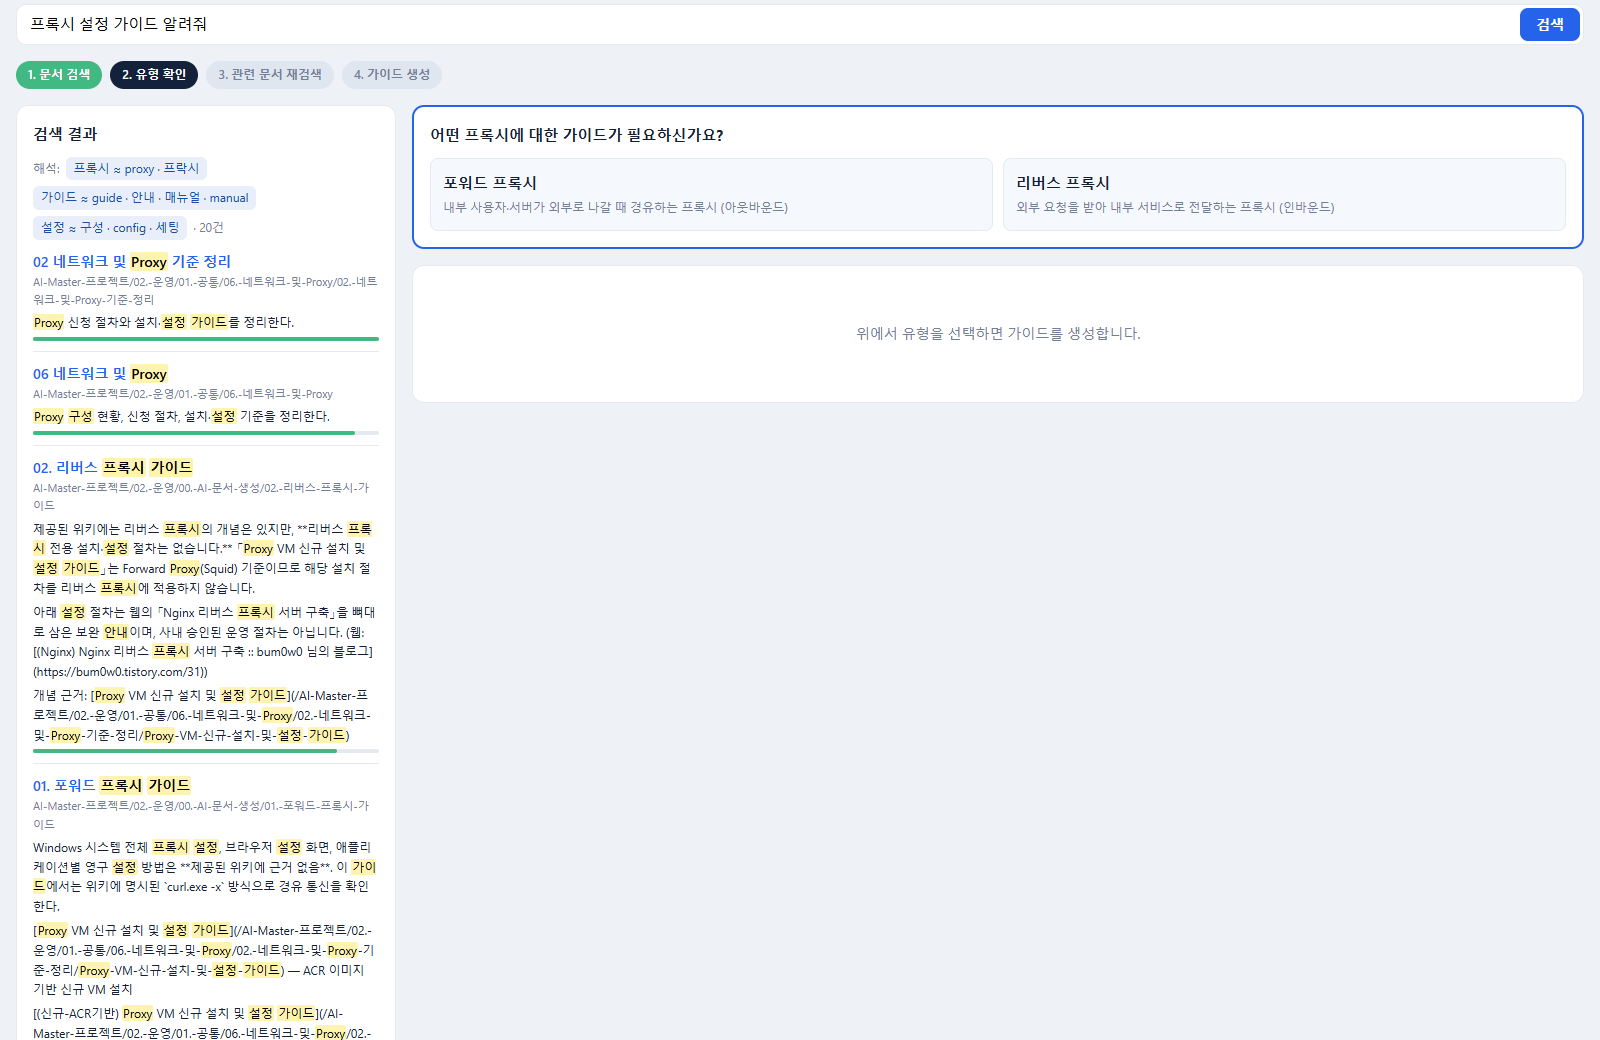
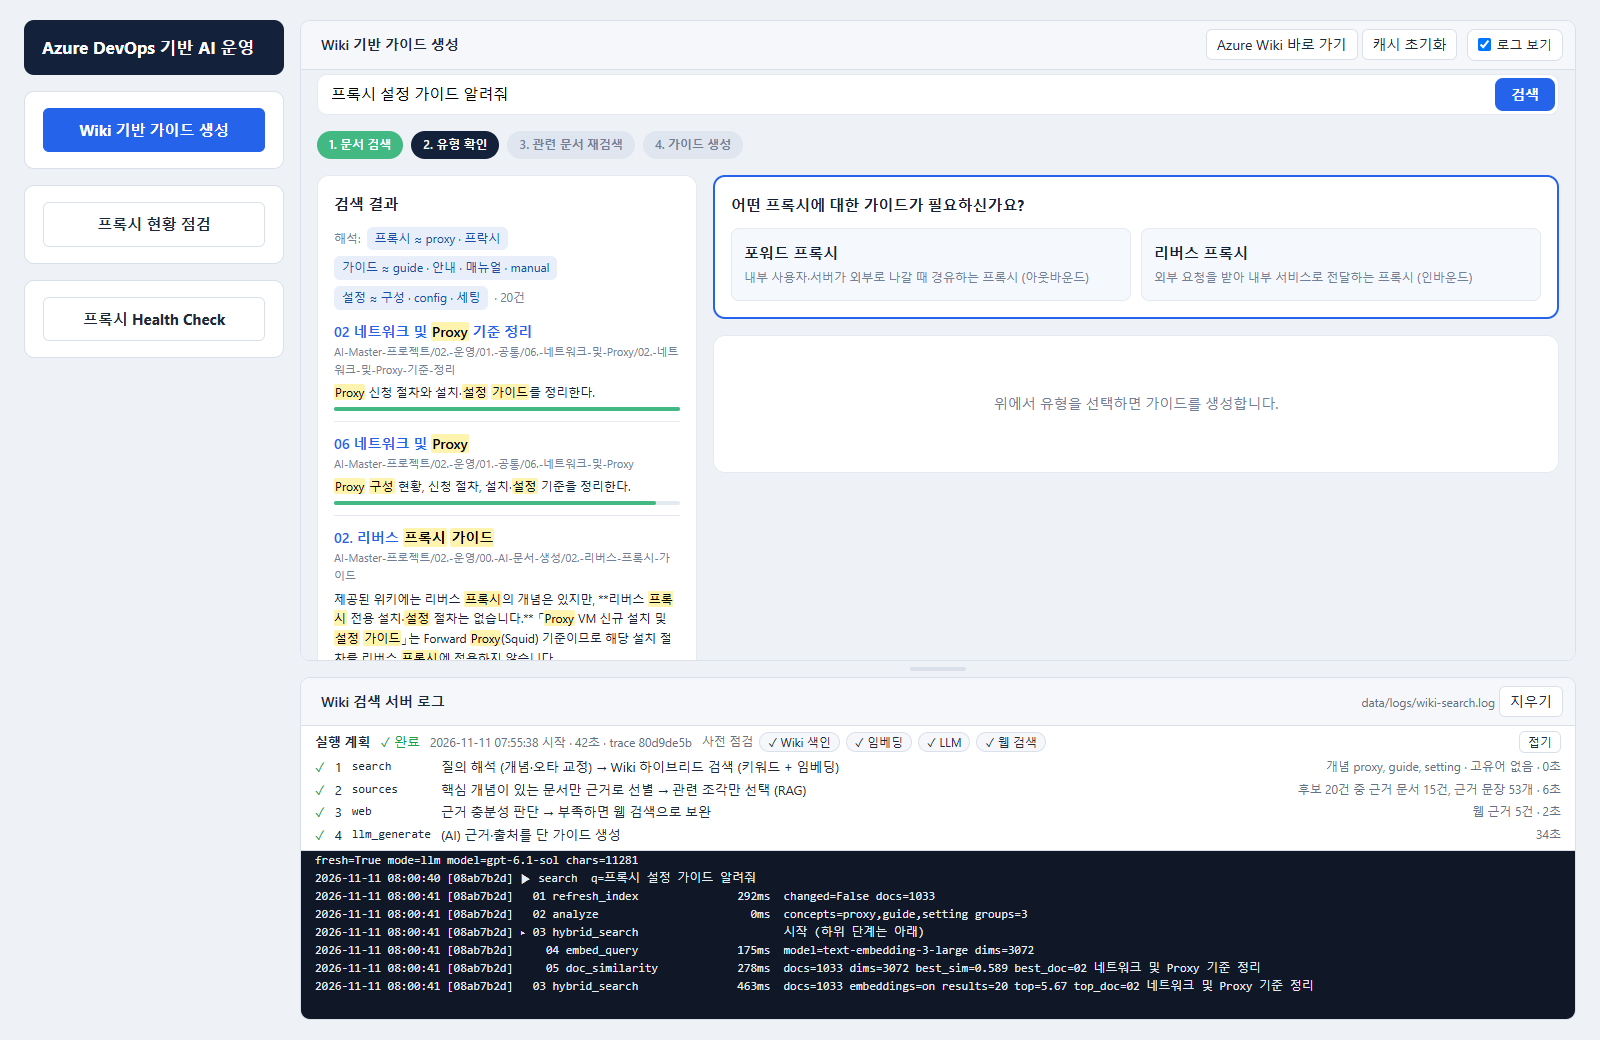
README 시나리오 1 그림을 허브 전체 화면(왼쪽 메뉴·Wiki 검색·서버 로그)으로 다시 촬영

diff --git a/test/capture_readme.py b/test/capture_readme.py
@@ -148,36 +148,57 @@ def reselect(page):
 
 
 def wiki(page):
-    ready(page, SITES["wiki"] + "/?embed=1")  # 허브 안에서 보이는 화면(위 검은 머리 없음, 가로 꽉 채움)과 같게
-    page.locator("#q").fill("프록시 설정 가이드 알려줘")
-    page.locator("#go").click()
-    page.locator("#ask .opt").first.wait_for(timeout=60000)
-    shot(page, "wiki-search-type.png")
+    """시나리오 1 화면: 허브에서 'Wiki 기반 가이드 생성'을 연 전체 화면(왼쪽 메뉴·오른쪽 Wiki 검색·아래 서버 로그)으로 찍는다.
+    조작은 오른쪽 Wiki 검색 iframe 안에서 한다(다른 출처라 프레임 안에서 따로 가린다)."""
+    ready(page, SITES["hub"])
+    page.evaluate("""async () => { const d = await (await fetch('/api/status')).json();
+      localStorage.setItem('hub.logStartAt', (d.log_start || {}).at || ''); localStorage.setItem('hub.logCleared', '{}'); }""")
+    ready(page, SITES["hub"])
+    page.locator("#s1run").click()
+    page.locator("#s1frame").wait_for(timeout=30000)
+    page.wait_for_function("document.getElementById('s1frame').src.includes('embed')", timeout=30000)
+    f = None
+    for _ in range(60):
+        f = next((x for x in page.frames if "wiki-search" in x.url), None)
+        if f:
+            break
+        page.wait_for_timeout(500)
+    f.wait_for_load_state("networkidle")
+
+    def fshot(name):
+        f.evaluate(REDACTOR)
+        page.wait_for_timeout(1500)  # 아래 서버 로그가 따라올 때까지
+        shot(page, name)
+
+    f.locator("#q").fill("프록시 설정 가이드 알려줘")
+    f.locator("#go").click()
+    f.locator("#ask .opt").first.wait_for(timeout=60000)
+    fshot("wiki-search-type.png")
     # 캐시 저장 전: 캐시가 있으면 '새로 만들기'로 LLM 이 새로 쓰게 한다(이때 캐시에 저장됨). Wiki 등록 버튼은 누르지 않는다.
-    guide(page, "포워드", fresh=True)
-    mark(page, BADGE)
-    shot(page, "wiki-search-guide.png")
-    mark(page)
-    page.locator("#revise").scroll_into_view_if_needed()
-    shot(page, "wiki-search-revise.png")
+    guide(f, "포워드", fresh=True)
+    mark(f, BADGE)
+    fshot("wiki-search-guide.png")
+    mark(f)
+    f.locator("#revise").scroll_into_view_if_needed()
+    fshot("wiki-search-revise.png")
     # 캐시 저장 후: 같은 질의·유형을 다시 고르면 근거 지문이 같아 LLM 없이 저장된 가이드가 나온다.
-    reselect(page)
-    guide(page, "포워드", fresh=False)
-    page.evaluate("window.scrollTo(0, 0)")
-    mark(page, BADGE)
-    shot(page, "wiki-search-cache.png")
+    reselect(f)
+    guide(f, "포워드", fresh=False)
+    f.evaluate("window.scrollTo(0, 0)")
+    mark(f, BADGE)
+    fshot("wiki-search-cache.png")
     # 웹 검색: 리버스 프록시는 위키 근거가 약해(유형 유사도 0.41 < 0.45) 웹 검색 결과를 근거에 보탠다.
-    reselect(page)
-    guide(page, "리버스", fresh=True)
-    page.evaluate("window.scrollTo(0, 0)")
-    mark(page, WEB_CHIP, WEB_NOTE)
-    shot(page, "wiki-search-web.png")
-    links = page.locator("#guide h2").filter(has_text="웹 참고 링크")
+    reselect(f)
+    guide(f, "리버스", fresh=True)
+    f.evaluate("window.scrollTo(0, 0)")
+    mark(f, WEB_CHIP, WEB_NOTE)
+    fshot("wiki-search-web.png")
+    links = f.locator("#guide h2").filter(has_text="웹 참고 링크")
     if links.count():
         links.first.scroll_into_view_if_needed()
-        mark(page, WEB_RESULTS, WEB_LINKS)
-        shot(page, "wiki-search-web-links.png")
-    mark(page)
+        mark(f, WEB_RESULTS, WEB_LINKS)
+        fshot("wiki-search-web-links.png")
+    mark(f)
 
 
 def viewer(page):

diff --git a/README.md b/README.md
@@ -118,7 +118,9 @@ flowchart TD
 - 같은 질의를 다시 하면, 근거 지문이 같을 때 LLM을 건너뛰는 가이드 캐시로 22.1초에서 0.6초가 됩니다(2026-10-30 측정, [6.1](#61-wiki-검색가이드-생성-wiki_searchpy)).
 - AI가 등록한 문서(00. AI 문서 생성)는 재료에서 뺍니다.
 
-**실행 화면** (2026-11-11 촬영, 설명할 곳은 빨간 테두리)
+**실행 화면** (2026-11-11 촬영, 허브에서 "Wiki 기반 가이드 생성"을 연 화면, 설명할 곳은 빨간 테두리)
+
+- 왼쪽은 시나리오 메뉴, 오른쪽 위는 Wiki 검색 화면, 아래는 Wiki 검색 서버 로그와 실행 계획입니다.
 
 **① 유형 확인**
 
@@ -128,7 +130,7 @@ flowchart TD
 
 **② 가이드 생성 (캐시 저장 전)**
 
-- 포워드를 고르면 근거 문서를 다시 찾고 LLM이 가이드를 씁니다(44초).
+- 포워드를 고르면 근거 문서를 다시 찾고 LLM이 가이드를 씁니다(43초).
 - 만든 가이드는 캐시에 저장됩니다. 촬영 중 Wiki에는 등록하지 않았습니다.
 
 ![Wiki 검색 - 가이드 생성(캐시 저장 전)](docs/images/wiki-search-guide.png)
